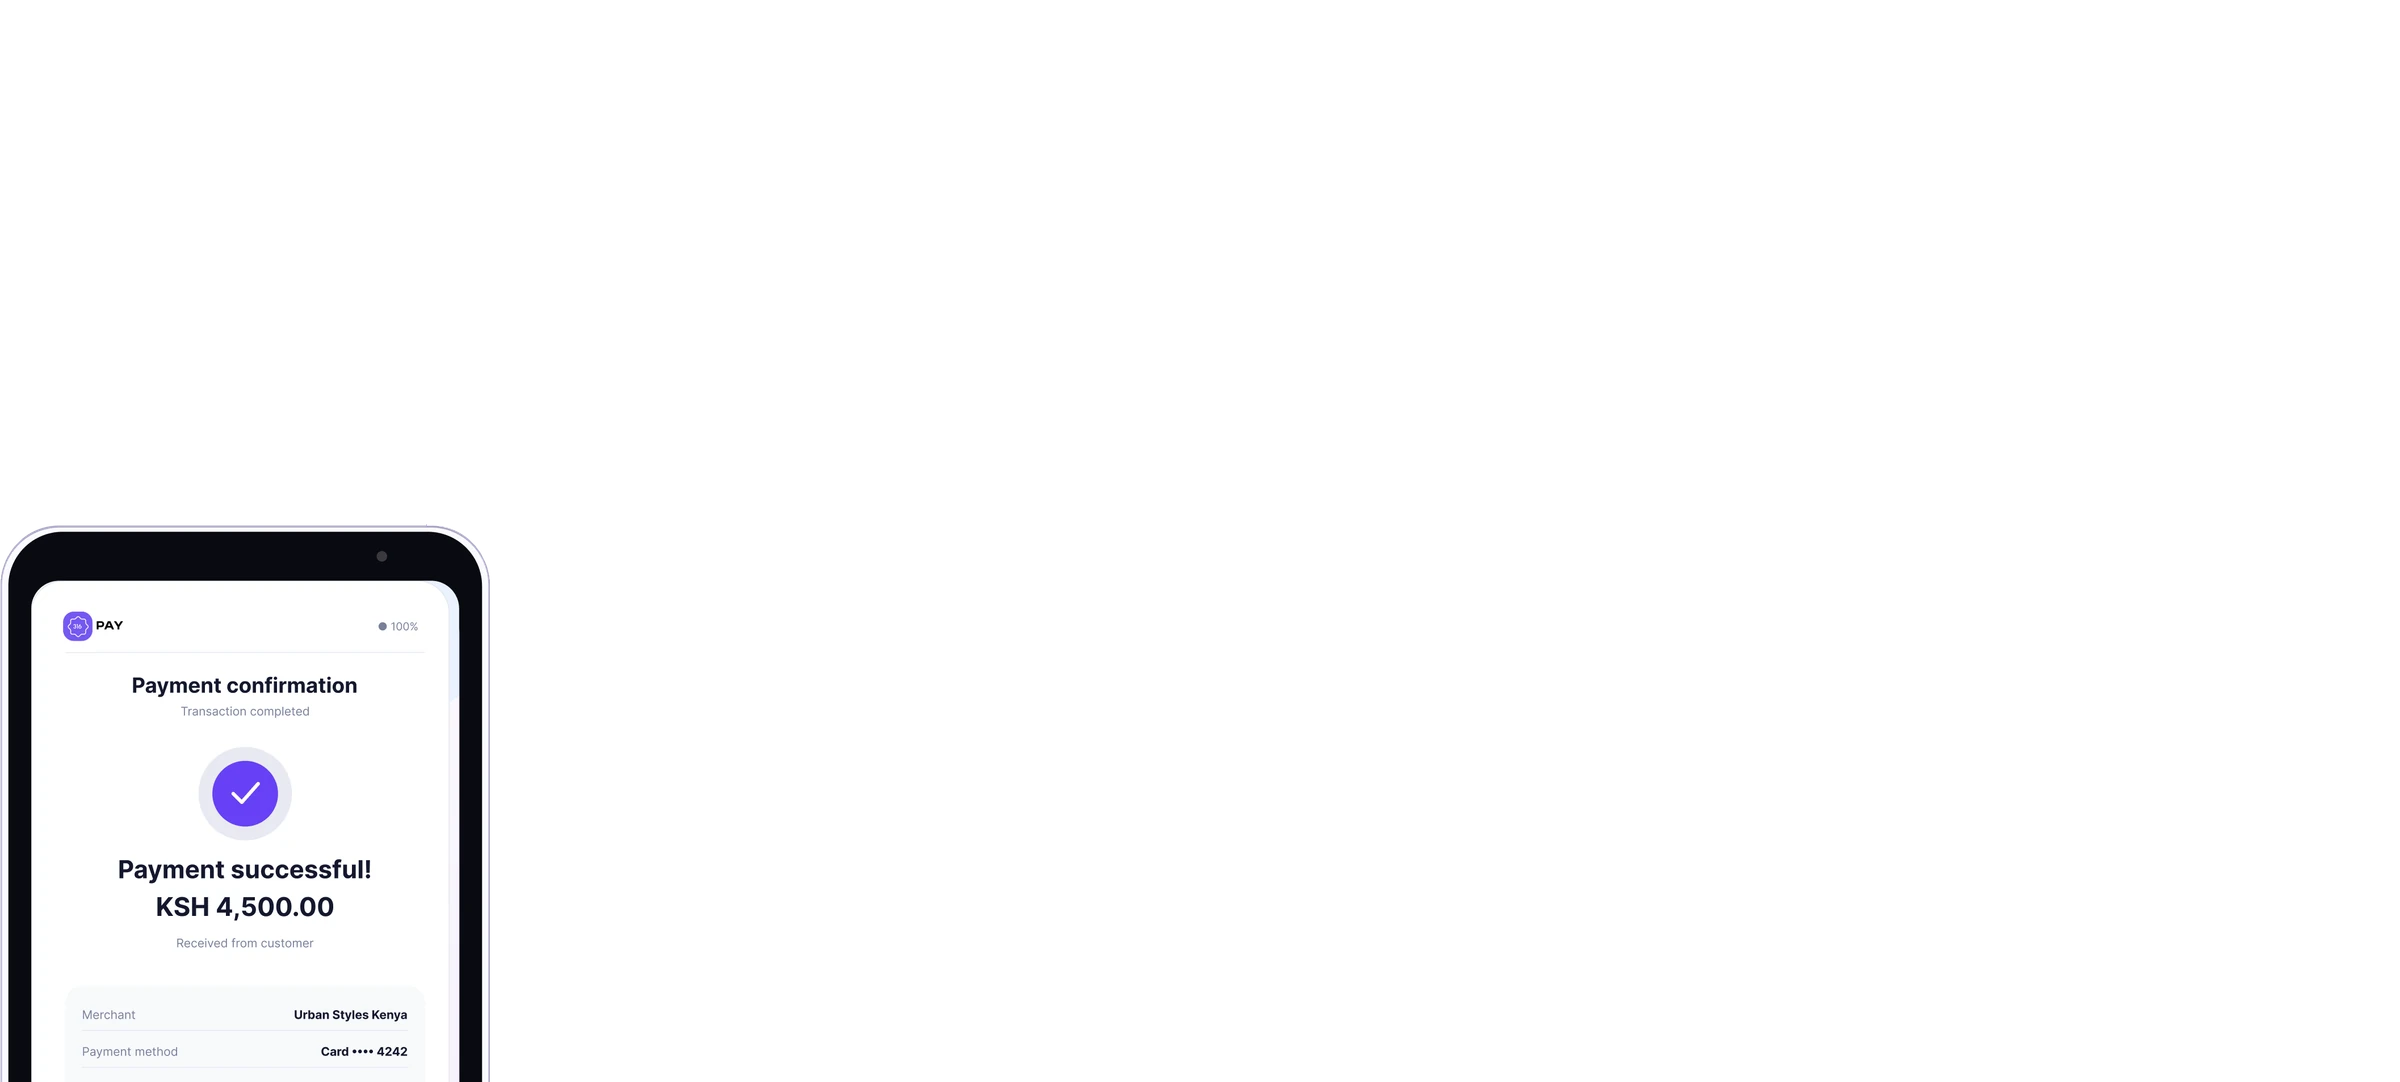
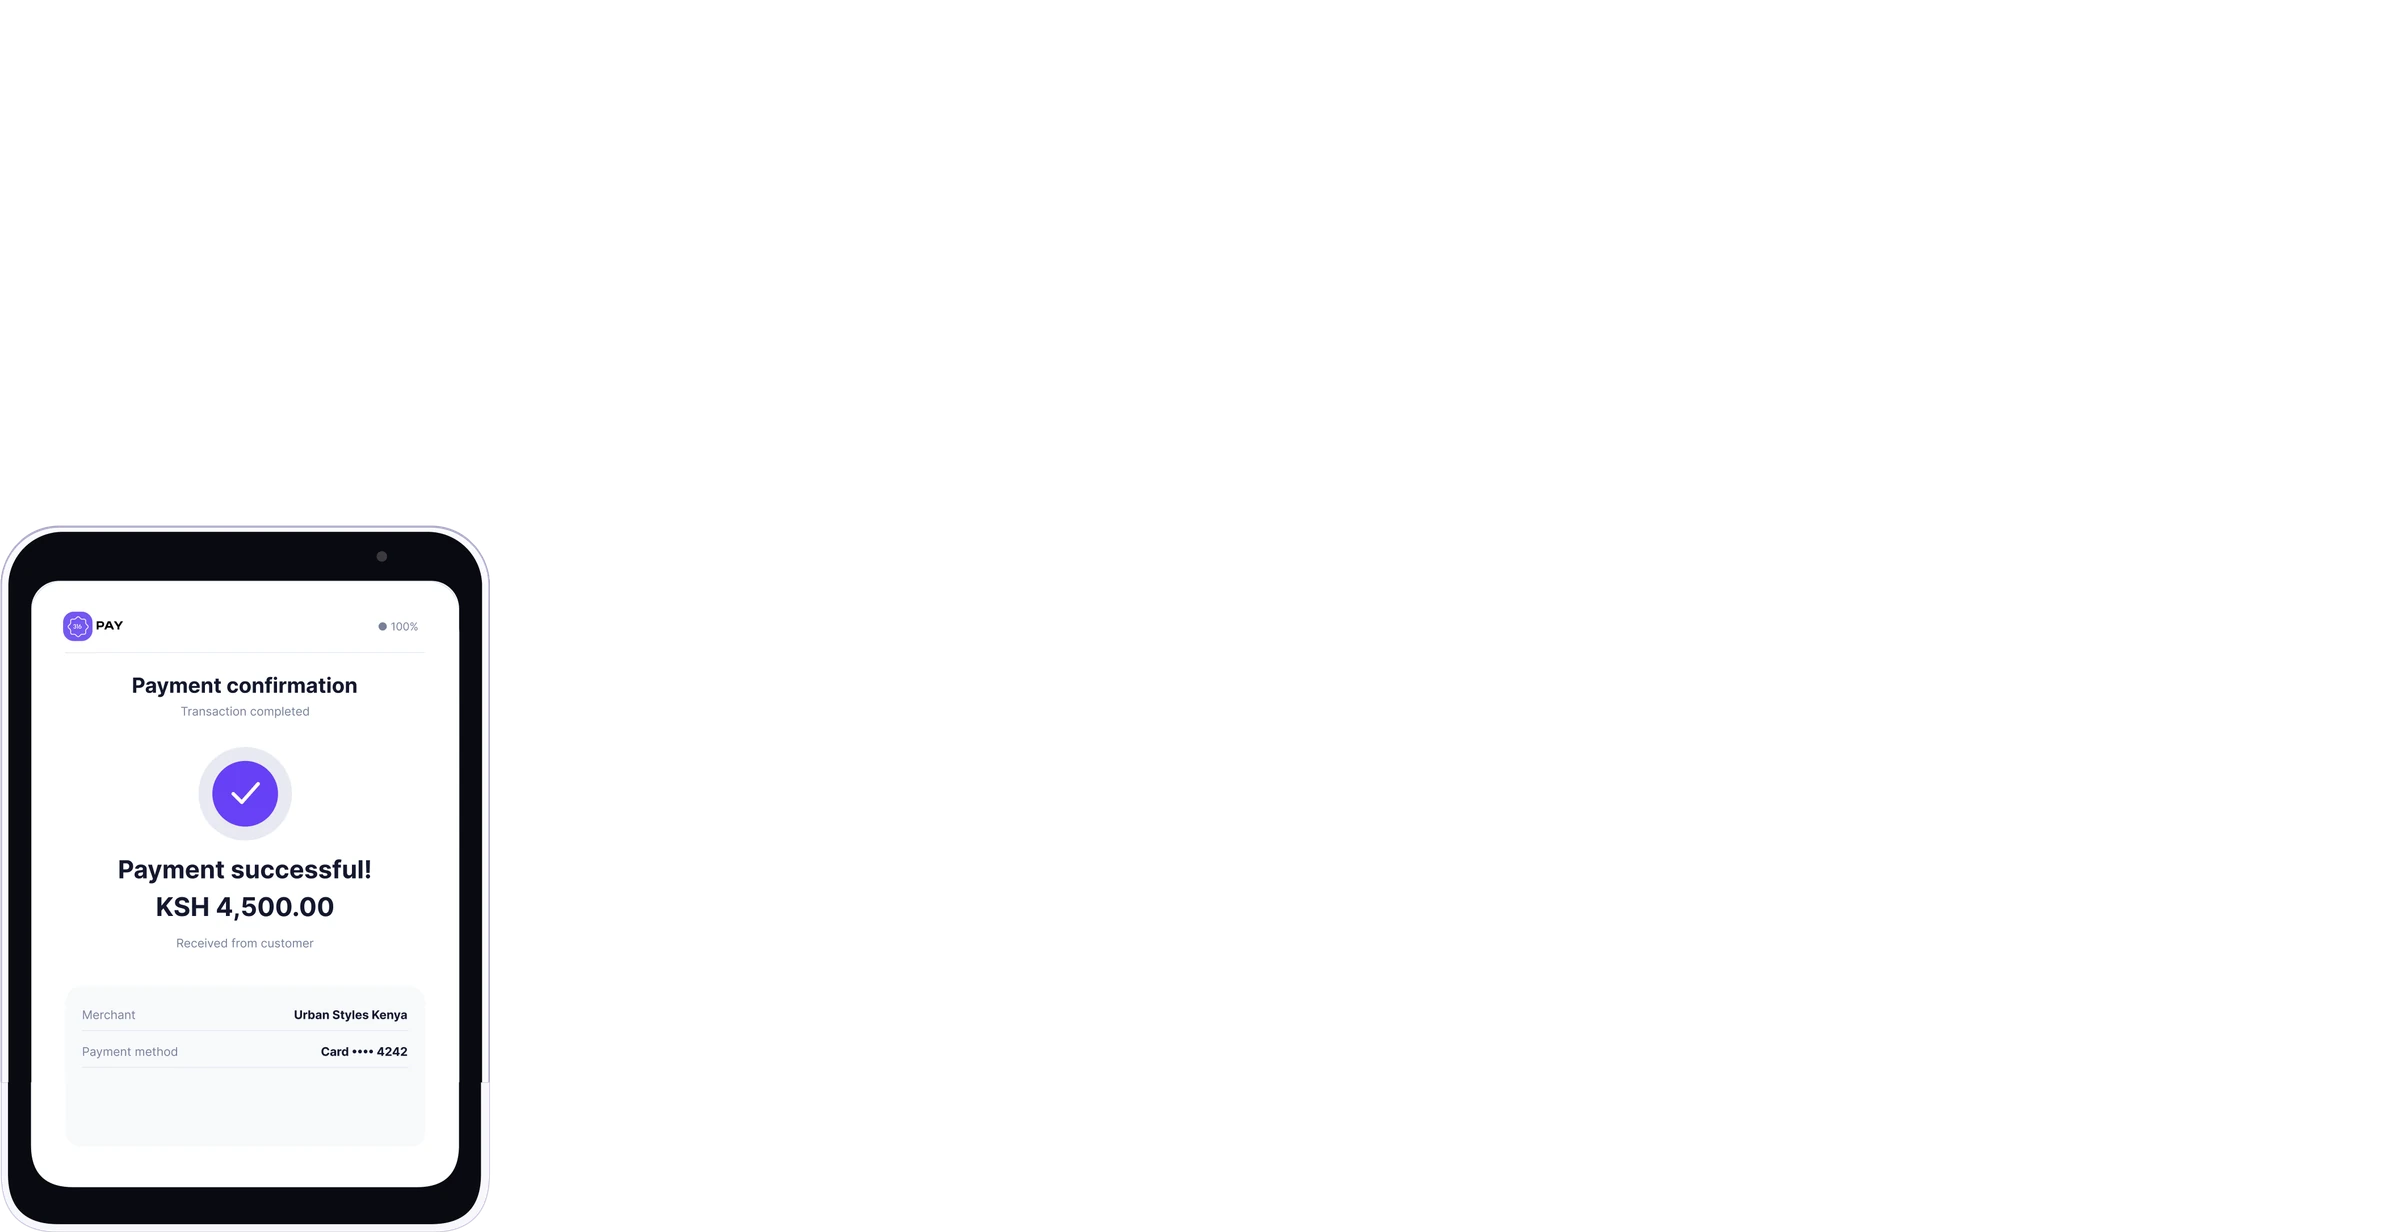
Hero phone: rounded bottom corners (the art was cut flat at the bottom edge), the top-right corner rebuilt as a mirror of the clean top-left so both top corners match, and the deck overlay rescaled to the taller image

diff --git a/apps/marketing-web/accept-online-payments.html b/apps/marketing-web/accept-online-payments.html
@@ -13,7 +13,7 @@
   <link rel="preload" as="image" href="assets/Business/hero-phone.webp" type="image/webp" fetchpriority="high">
   <link rel="stylesheet" href="styles.css?v=12b22bb8">
   <link rel="stylesheet" href="sections.css?v=f6dff5d2">
-  <link rel="stylesheet" href="business.css?v=132bec5f">
+  <link rel="stylesheet" href="business.css?v=24b73612">
   <link rel="stylesheet" href="mobile.css?v=3ae922dd">
 </head>
 <body class="theme-pay">
@@ -214,8 +214,8 @@
         <h1 id="bz-hero-title" class="bz-hero__title"><span class="ln accent">We make it easy</span> <span class="ln">to collect payments in Africa</span></h1>
         <p class="bz-lead"><span class="ln">Collect payments from customers, simplify your operations and reach more</span> <span class="ln">of your market with payment infrastructure designed around African</span> <span class="ln">businesses.</span></p>
       </div>
-      <div class="bz-hero__media"><img src="assets/Business/hero-phone.webp" alt="A phone showing a payment confirmation in front of three checkout screens: mobile money, bank transfer and card" class="bz-img" fetchpriority="high" width="2400" height="1082" decoding="async">
-      <img src="assets/Business/hero-phone.webp" alt="" class="bz-phone-top" loading="eager" width="2400" height="1082" decoding="async">
+      <div class="bz-hero__media"><img src="assets/Business/hero-phone.webp" alt="A phone showing a payment confirmation in front of three checkout screens: mobile money, bank transfer and card" class="bz-img" fetchpriority="high" width="2400" height="1232" decoding="async">
+      <img src="assets/Business/hero-phone.webp" alt="" class="bz-phone-top" loading="eager" width="2400" height="1232" decoding="async">
       <div class="bz-hero__screens" aria-hidden="true">
         <div class="bz-deck bz-deck--1"><img src="assets/Business/hero-win.webp" alt="" class="bz-base" loading="eager" width="1500" height="1063" decoding="async"><svg class="bz-ov" viewBox="0 0 968 686" aria-hidden="true" focusable="false" preserveAspectRatio="xMinYMin slice"><g class="hp2"><rect x="80" y="578" width="298" height="22" rx="3" fill="rgba(117,87,241,.18)"/></g><g class="hp3 tc"><circle cx="130" cy="589" r="16" fill="none" stroke="#7557F1" stroke-width="2.2"/></g><g class="hp4"><rect x="56" y="256" width="332" height="440" rx="0" fill="#fff"/></g><g class="hp5"><text x="64" y="292" font-size="14" font-weight="600" fill="#111">Pay to this account</text></g><g class="hp6"><text x="64" y="338" font-size="12" font-weight="500" fill="#5F6B8A">Bank name</text><rect x="64" y="352" width="32" height="30" rx="6" fill="#F3F4F8"/><text x="80" y="371" font-size="9" font-weight="700" fill="#18B1A5" text-anchor="middle">Pay</text><text x="106" y="373" font-size="15" font-weight="500" fill="#111">Opay</text><line x1="64" y1="396" x2="372" y2="396" stroke="#EDEFF4" stroke-width="1.4"/></g><g class="hp7"><text x="64" y="424" font-size="12" font-weight="500" fill="#5F6B8A">Account number</text></g><g class="hp8"><text x="64" y="454" font-size="15" font-weight="500" fill="#111">1457778996</text><line x1="64" y1="474" x2="372" y2="474" stroke="#EDEFF4" stroke-width="1.4"/></g><g class="hp9"><text x="64" y="504" font-size="12" font-weight="500" fill="#5F6B8A">Merchant Name</text><text x="64" y="534" font-size="15" font-weight="500" fill="#111">316 PAY / AMAKAS BOUTIQUE</text><line x1="64" y1="554" x2="372" y2="554" stroke="#EDEFF4" stroke-width="1.4"/></g><g class="hp10"><g transform="translate(126 580) scale(0.708)" fill="none" stroke="#111" stroke-width="2" stroke-linecap="round" stroke-linejoin="round"><circle cx="12" cy="12" r="9"/><path d="M12 7v5l3 2"/></g><text x="150" y="593" font-size="11" font-weight="500" fill="#111">Complete transfer within</text></g><g class="hp11"><text x="290" y="593" font-size="11" font-weight="700" fill="#111">09:45</text></g><g class="hp12"><text x="290" y="593" font-size="11" font-weight="700" fill="#111">09:44</text></g><g class="hp13"><text x="290" y="593" font-size="11" font-weight="700" fill="#111">09:43</text></g><g class="hp14"><text x="290" y="593" font-size="11" font-weight="700" fill="#111">09:42</text></g><g class="hp15"><rect x="60" y="612" width="320" height="36" rx="3" fill="#F0F0F2"/><g class="hp-spin tc"><g transform="translate(143 623) scale(0.583)" fill="none" stroke="#9AA0AD" stroke-width="2.6" stroke-linecap="round" stroke-linejoin="round"><path d="M12 3a9 9 0 1 0 9 9" /></g></g><text x="168" y="635" font-size="12" font-weight="500" fill="#9AA0AD">Waiting for payment</text></g><g class="hp16"><rect x="60" y="612" width="320" height="36" rx="3" fill="#1FAE7A"/><g transform="translate(150 622) scale(0.667)" fill="none" stroke="#fff" stroke-width="3" stroke-linecap="round" stroke-linejoin="round"><path d="m6 12.5 4 4 8-9"/></g><text x="176" y="635" font-size="12" font-weight="700" fill="#fff">Payment received</text></g><g class="hp17"><circle cx="222" cy="318" r="40" fill="none" stroke="#E4DEFF" stroke-width="6" pathLength="1" stroke-dasharray="1" transform="rotate(-90 222 318)"/></g><g class="hp18 tc"><circle cx="222" cy="318" r="29" fill="#7557F1"/></g><g class="hp19"><path d="m208 318.5 10 10 19-21" fill="none" stroke="#fff" stroke-width="5" stroke-linecap="round" stroke-linejoin="round" pathLength="1" stroke-dasharray="1"/></g><g class="hp20"><text x="222" y="392" font-size="15" font-weight="700" fill="#111" text-anchor="middle">Payment Successful</text><text x="222" y="417" font-size="14" font-weight="700" fill="#111" text-anchor="middle">NGN 57,000</text></g><g class="hp21"><rect x="202" y="428" width="40" height="16" rx="8" fill="#E7E2FF"/><text x="222" y="440" font-size="9.5" font-weight="600" fill="#7557F1" text-anchor="middle">Paid</text></g><g class="hp22"><rect x="56" y="460" width="328" height="130" rx="0" fill="#F8F7FF"/></g><g class="hp23"><text x="78" y="488" font-size="12" font-weight="500" fill="#5F6B8A">Paid to</text><text x="362" y="488" font-size="12" font-weight="700" fill="#111" text-anchor="end">Amakas Boutique</text></g><g class="hp24"><text x="78" y="518" font-size="12" font-weight="500" fill="#5F6B8A">Payment Method</text><text x="362" y="518" font-size="12" font-weight="700" fill="#111" text-anchor="end">Bank Transfer</text></g><g class="hp25"><text x="78" y="548" font-size="12" font-weight="500" fill="#5F6B8A">Reference</text><text x="362" y="548" font-size="12" font-weight="700" fill="#111" text-anchor="end">PAY-20481</text></g><g class="hp26"><text x="78" y="578" font-size="12" font-weight="500" fill="#5F6B8A">Status</text><text x="362" y="578" font-size="12" font-weight="700" fill="#111" text-anchor="end">Complete</text></g><g class="hp27"><rect x="60" y="604" width="320" height="32" rx="3" fill="#7557F1"/><text x="220" y="625" font-size="13" font-weight="700" fill="#fff" text-anchor="middle">Done</text></g><g class="hp28"><rect x="60" y="644" width="320" height="26" rx="3" fill="#fff" stroke="#D6D6DE" stroke-width="1"/><text x="220" y="662" font-size="11" font-weight="500" fill="#333" text-anchor="middle">Copy receipt details</text></g><g class="hp29"><path d="M0 0 0 17.5l4.6-4 3.2 7.4 3.2-1.4-3.2-7.2H14Z" fill="#111" stroke="#fff" stroke-width="1.3" stroke-linejoin="round"/></g></svg></div>
         <div class="bz-deck bz-deck--2"><img src="assets/Business/hero-bs.webp" alt="" class="bz-base" loading="eager" width="1500" height="1063" decoding="async"><svg class="bz-ov" viewBox="0 0 968 686" aria-hidden="true" focusable="false" preserveAspectRatio="xMinYMin slice"><g class="hp30"><rect x="172" y="463" width="88" height="24" rx="2" fill="#fff" stroke="#E6E6EA" stroke-width="1"/><text x="216" y="480" font-size="11" font-weight="500" fill="#111"></text></g><g class="hp31"><text x="216" y="479.5" font-size="11" font-weight="500" fill="#111" text-anchor="middle">0712 345 678</text></g><g class="hp32"><rect x="64" y="585" width="302" height="28" rx="3" fill="#5D45D8"/><g class="hp-spin tc"><g transform="translate(163 592) scale(0.583)" fill="none" stroke="#fff" stroke-width="2.8" stroke-linecap="round" stroke-linejoin="round"><path d="M12 3a9 9 0 1 0 9 9" /></g></g><text x="188" y="603" font-size="11" font-weight="600" fill="#fff">Processing…</text></g><g class="hp33 tc"><circle cx="228" cy="599" r="16" fill="none" stroke="#7557F1" stroke-width="2.2"/></g><g class="hp34"><rect x="56" y="252" width="328" height="436" rx="0" fill="#fff"/></g><g class="hp35"><circle class="hp-pulse" cx="219" cy="298" r="34" fill="#EFEBFD"/><circle class="hp-pulse hp-pulse2" cx="219" cy="298" r="34" fill="#EFEBFD"/><circle cx="219" cy="298" r="34" fill="#E9E4FF"/><g transform="translate(204 281) scale(1.250)" fill="none" stroke="#111" stroke-width="1.6" stroke-linecap="round" stroke-linejoin="round"><rect x="5" y="2" width="11" height="18" rx="2"/><path d="M8 17h5"/><rect x="12" y="10" width="9" height="6" rx="1" fill="#7C5CF2" stroke="#7C5CF2"/></g></g><g class="hp36"><text x="219" y="360" font-size="15" font-weight="700" fill="#111" text-anchor="middle">Check your phone</text><text x="219" y="380" font-size="10.5" font-weight="400" fill="#9AA0AD" text-anchor="middle">We sent a payment request to your M-PESA number.</text></g><g class="hp37"><rect x="62" y="400" width="314" height="168" rx="6" fill="#F4F3FF"/><text x="219" y="420" font-size="9" font-weight="400" fill="#9AA0AD" text-anchor="middle">Amount to collect</text><text x="219" y="448" font-size="22" font-weight="700" fill="#111" text-anchor="middle">KSH 51,000</text><line x1="62" y1="462" x2="376" y2="462" stroke="#EAE7F8" stroke-width="1.4"/></g><g class="hp38"><text x="82" y="490" font-size="12" font-weight="500" fill="#5F6B8A">M-pesa number</text><text x="358" y="490" font-size="12" font-weight="700" fill="#111" text-anchor="end">0712 345 678</text></g><g class="hp39"><text x="82" y="520" font-size="12" font-weight="500" fill="#5F6B8A">Merchant</text><text x="358" y="520" font-size="12" font-weight="700" fill="#111" text-anchor="end">B &amp; Sons Furniture</text></g><g class="hp40"><text x="82" y="550" font-size="12" font-weight="500" fill="#5F6B8A">Status</text><g class="hp-chip"><rect x="268" y="538" width="90" height="18" rx="9" fill="#EDE9FF"/><text x="313" y="550.5" font-size="9.5" font-weight="700" fill="#3A2A78" text-anchor="middle">Awaiting approval</text></g></g><g class="hp41"><rect x="62" y="590" width="314" height="28" rx="6" fill="#EFEBFD"/><g class="hp-load"><rect x="62" y="590" width="90" height="28" rx="6" fill="rgba(117,87,241,.22)"/></g><text x="219" y="608" font-size="11" font-weight="600" fill="#5B3FD0" text-anchor="middle">Awaiting confirmation</text></g><g class="hp42"><g transform="translate(176 632) scale(0.458)" fill="none" stroke="#3A2A78" stroke-width="2.4" stroke-linecap="round" stroke-linejoin="round"><rect x="5" y="11" width="14" height="10" rx="2"/><path d="M8 11V8a4 4 0 0 1 8 0v3"/></g><text x="192" y="641" font-size="10" font-weight="500" fill="#3A2A78">Secured by 316 Pay</text></g><g class="hp43"><circle cx="222" cy="318" r="40" fill="none" stroke="#E4DEFF" stroke-width="6" pathLength="1" stroke-dasharray="1" transform="rotate(-90 222 318)"/></g><g class="hp44 tc"><circle cx="222" cy="318" r="29" fill="#7557F1"/></g><g class="hp45"><path d="m208 318.5 10 10 19-21" fill="none" stroke="#fff" stroke-width="5" stroke-linecap="round" stroke-linejoin="round" pathLength="1" stroke-dasharray="1"/></g><g class="hp46"><text x="222" y="392" font-size="15" font-weight="700" fill="#111" text-anchor="middle">Payment Successful</text><text x="222" y="417" font-size="14" font-weight="700" fill="#111" text-anchor="middle">KSH 51,000</text></g><g class="hp47"><rect x="202" y="428" width="40" height="16" rx="8" fill="#E7E2FF"/><text x="222" y="440" font-size="9.5" font-weight="600" fill="#7557F1" text-anchor="middle">Paid</text></g><g class="hp48"><rect x="56" y="460" width="328" height="130" rx="0" fill="#F8F7FF"/></g><g class="hp49"><text x="78" y="488" font-size="12" font-weight="500" fill="#5F6B8A">Paid to</text><text x="362" y="488" font-size="12" font-weight="700" fill="#111" text-anchor="end">B &amp; Sons Furniture</text></g><g class="hp50"><text x="78" y="518" font-size="12" font-weight="500" fill="#5F6B8A">Payment Method</text><text x="362" y="518" font-size="12" font-weight="700" fill="#111" text-anchor="end">M-PESA</text></g><g class="hp51"><text x="78" y="548" font-size="12" font-weight="500" fill="#5F6B8A">Reference</text><text x="362" y="548" font-size="12" font-weight="700" fill="#111" text-anchor="end">ORD-20481</text></g><g class="hp52"><text x="78" y="578" font-size="12" font-weight="500" fill="#5F6B8A">Status</text><text x="362" y="578" font-size="12" font-weight="700" fill="#111" text-anchor="end">Complete</text></g><g class="hp53"><rect x="60" y="604" width="320" height="32" rx="3" fill="#7557F1"/><text x="220" y="625" font-size="13" font-weight="700" fill="#fff" text-anchor="middle">Done</text></g><g class="hp54"><rect x="60" y="644" width="320" height="26" rx="3" fill="#fff" stroke="#D6D6DE" stroke-width="1"/><text x="220" y="662" font-size="11" font-weight="500" fill="#333" text-anchor="middle">Copy receipt details</text></g><g class="hp55"><path d="M0 0 0 17.5l4.6-4 3.2 7.4 3.2-1.4-3.2-7.2H14Z" fill="#111" stroke="#fff" stroke-width="1.3" stroke-linejoin="round"/></g></svg></div>

diff --git a/apps/marketing-web/business.css b/apps/marketing-web/business.css
@@ -294,7 +294,7 @@
    like a falling card and goes to the back of the stack while the next deck comes forward. The screens are inline SVG on a
    968 x 686 design box, so they scale exactly with the artwork (no unit maths, nothing to mis-render). ---------- */
 .bz-hero__media { position: relative; }
-.bz-hero__screens { position: absolute; left: 38.29%; top: 0.63%; width: 61.12%; height: 96.07%; pointer-events: none; }
+.bz-hero__screens { position: absolute; left: 38.29%; top: 0.553%; width: 61.12%; height: 84.39%; pointer-events: none; }
 .bz-deck { position: absolute; inset: 0; transform-origin: 50% 0; border-radius: 1.5% / 2.1%; background: #fff; box-shadow: 0 0.75rem 2rem rgba(70, 40, 150, .18); overflow: hidden; will-change: transform, opacity; }
 .bz-deck > .bz-base, .bz-deck > .bz-ov { position: absolute; inset: 0; width: 100%; height: 100%; display: block; max-width: none; }
 .bz-ov text { font-family: var(--font); }
